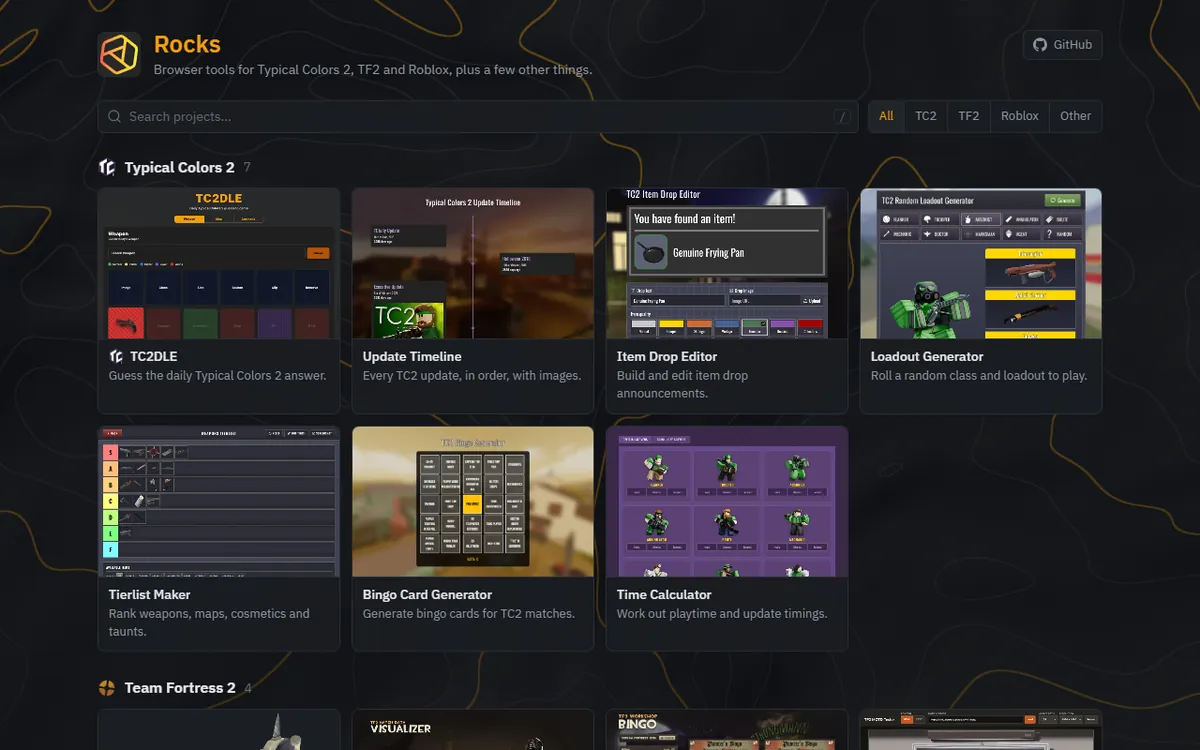
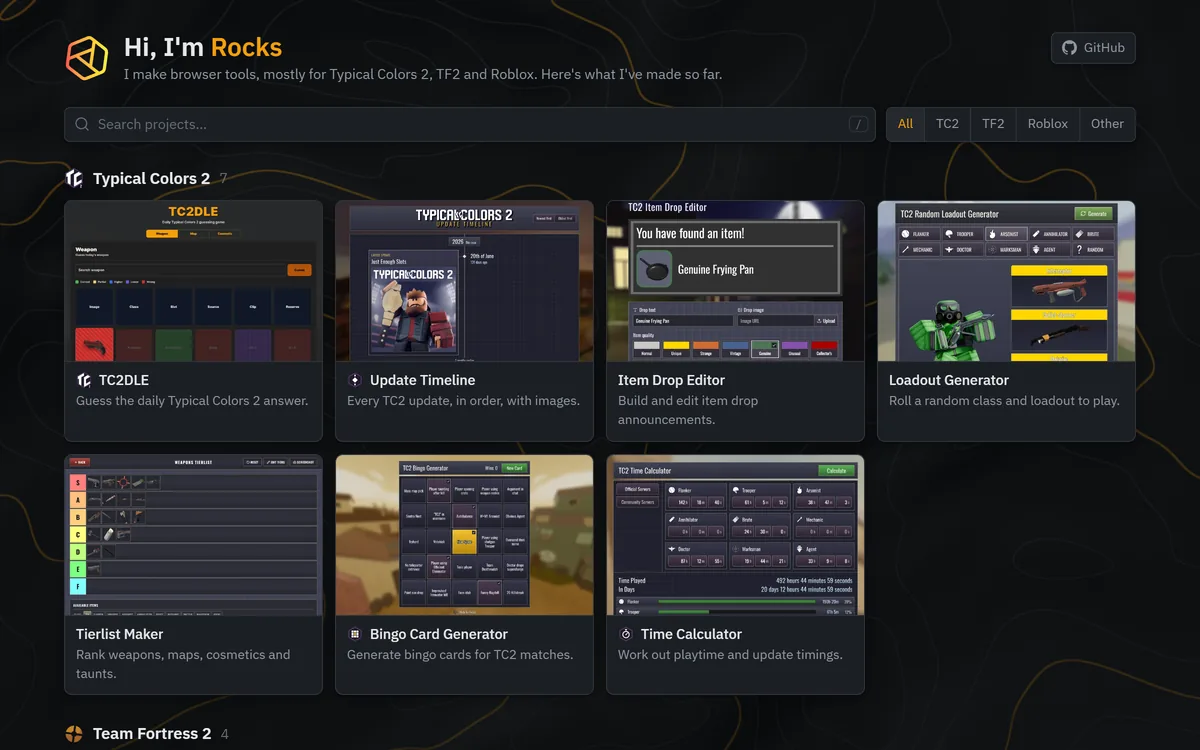
Retake the README screenshot of the hub

diff --git a/README.md b/README.md
@@ -7,7 +7,7 @@
 
 The hub for my browser tools: Typical Colors 2, Team Fortress 2 and Roblox, plus a few other things.
 
-<a href="https://rhgx.github.io/"><img src="docs/screenshot.webp" alt="The hub with Typical Colors 2 and Team Fortress 2 project cards over the contour-map background" width="600" /></a>
+<a href="https://rhgx.github.io/"><img src="docs/screenshot.webp" alt="The hub's Typical Colors 2 section, with a card for each tool over the contour-map background" width="600" /></a>
 
 **[Open the site](https://rhgx.github.io/)**
 
